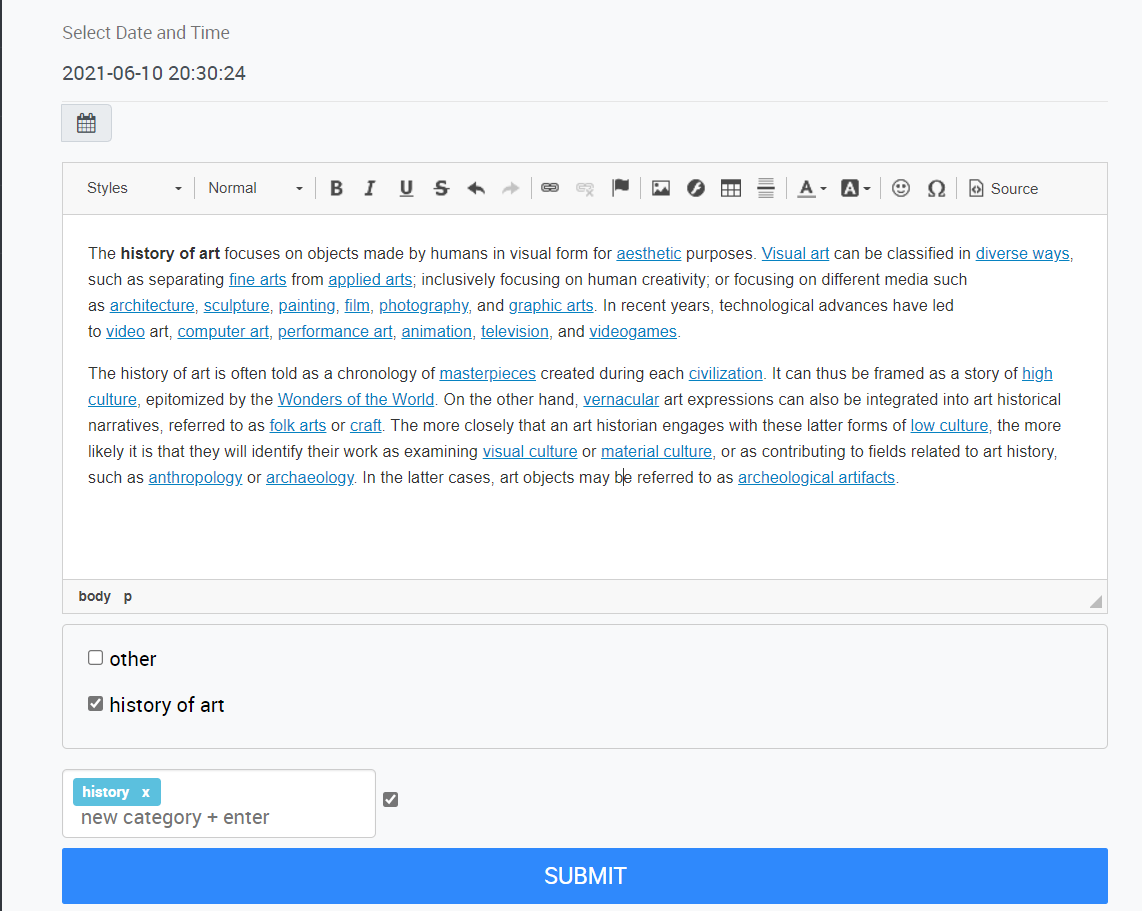
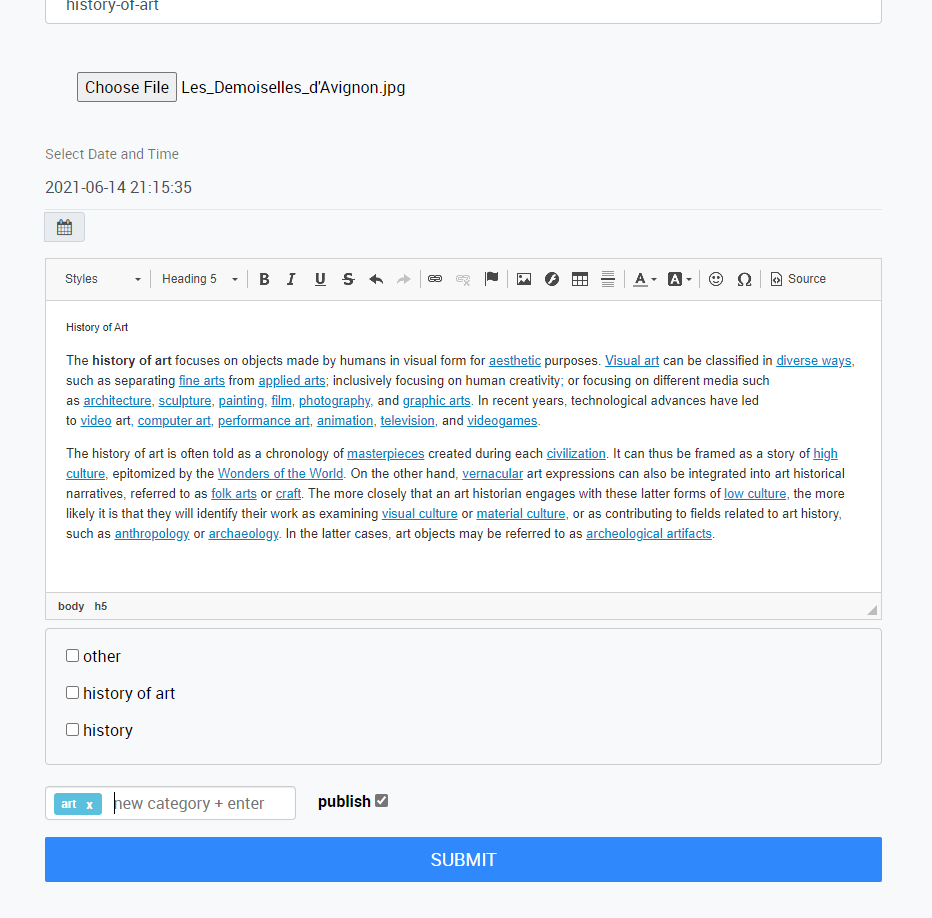
minor change to ui. updated screenshots.

diff --git a/website/blog/templates/panel.html b/website/blog/templates/panel.html
@@ -240,9 +240,7 @@ $('.del_cat').on('click', function(){
 
 {{form.new_categories}}
 
-{{ form.is_published }}
-
-
+<label style="padding: 1em;"> <b>publish</b> {{ form.is_published }} </label>
 <button type="submit" class="btn btn-lg btn-primary btn-block submit"> submit </button>
 </form>
 </div>
